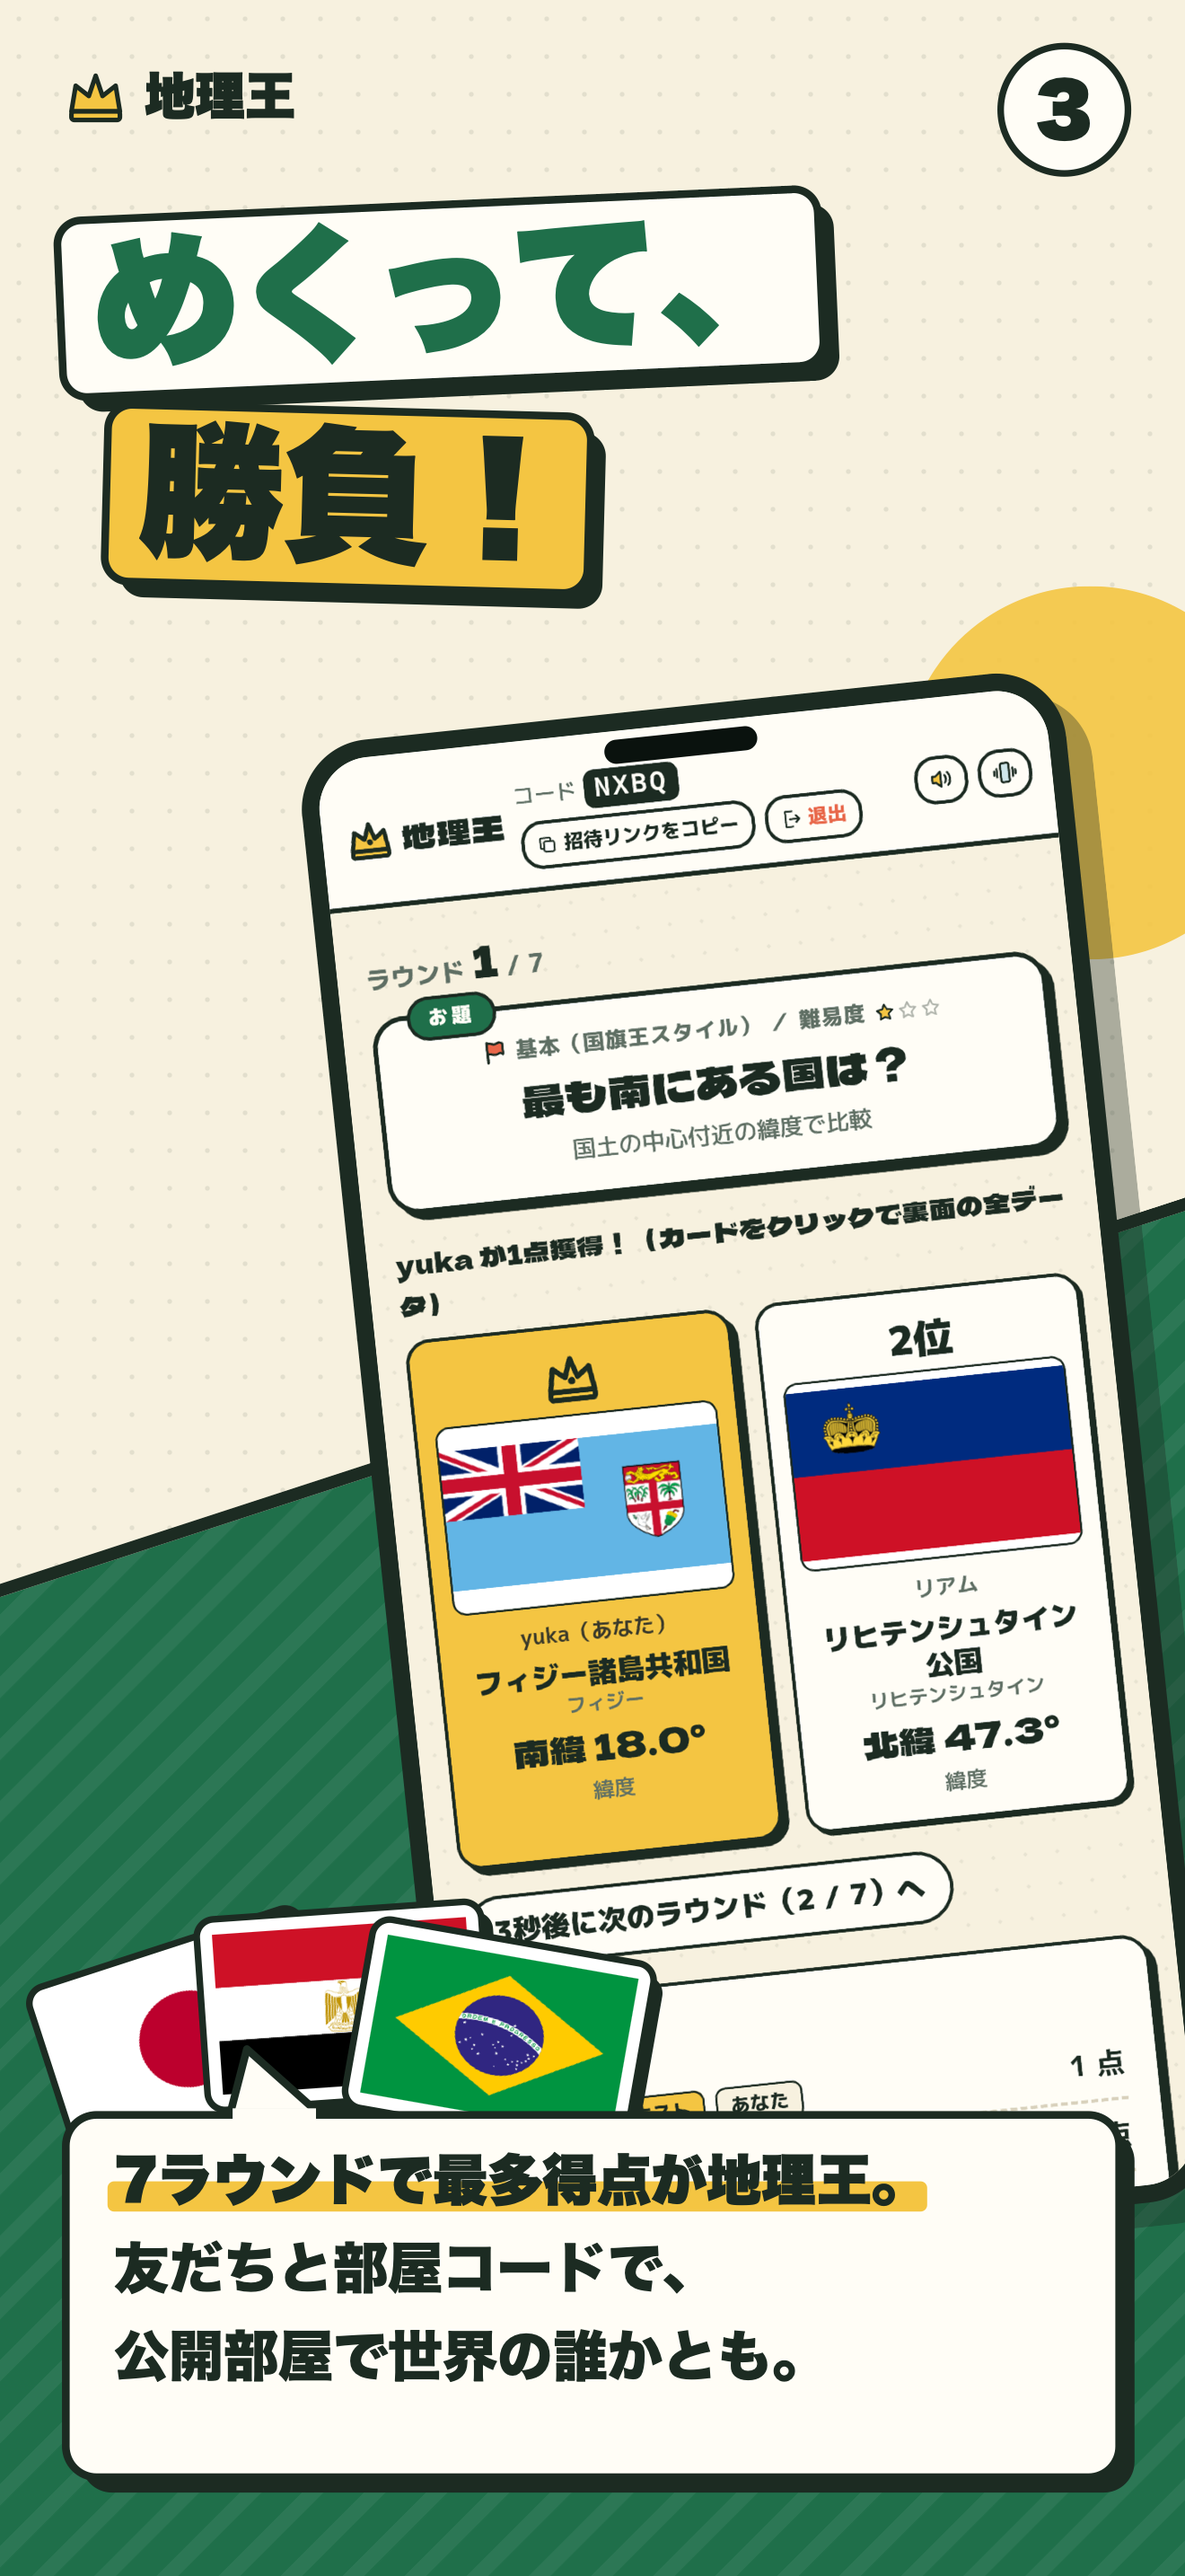
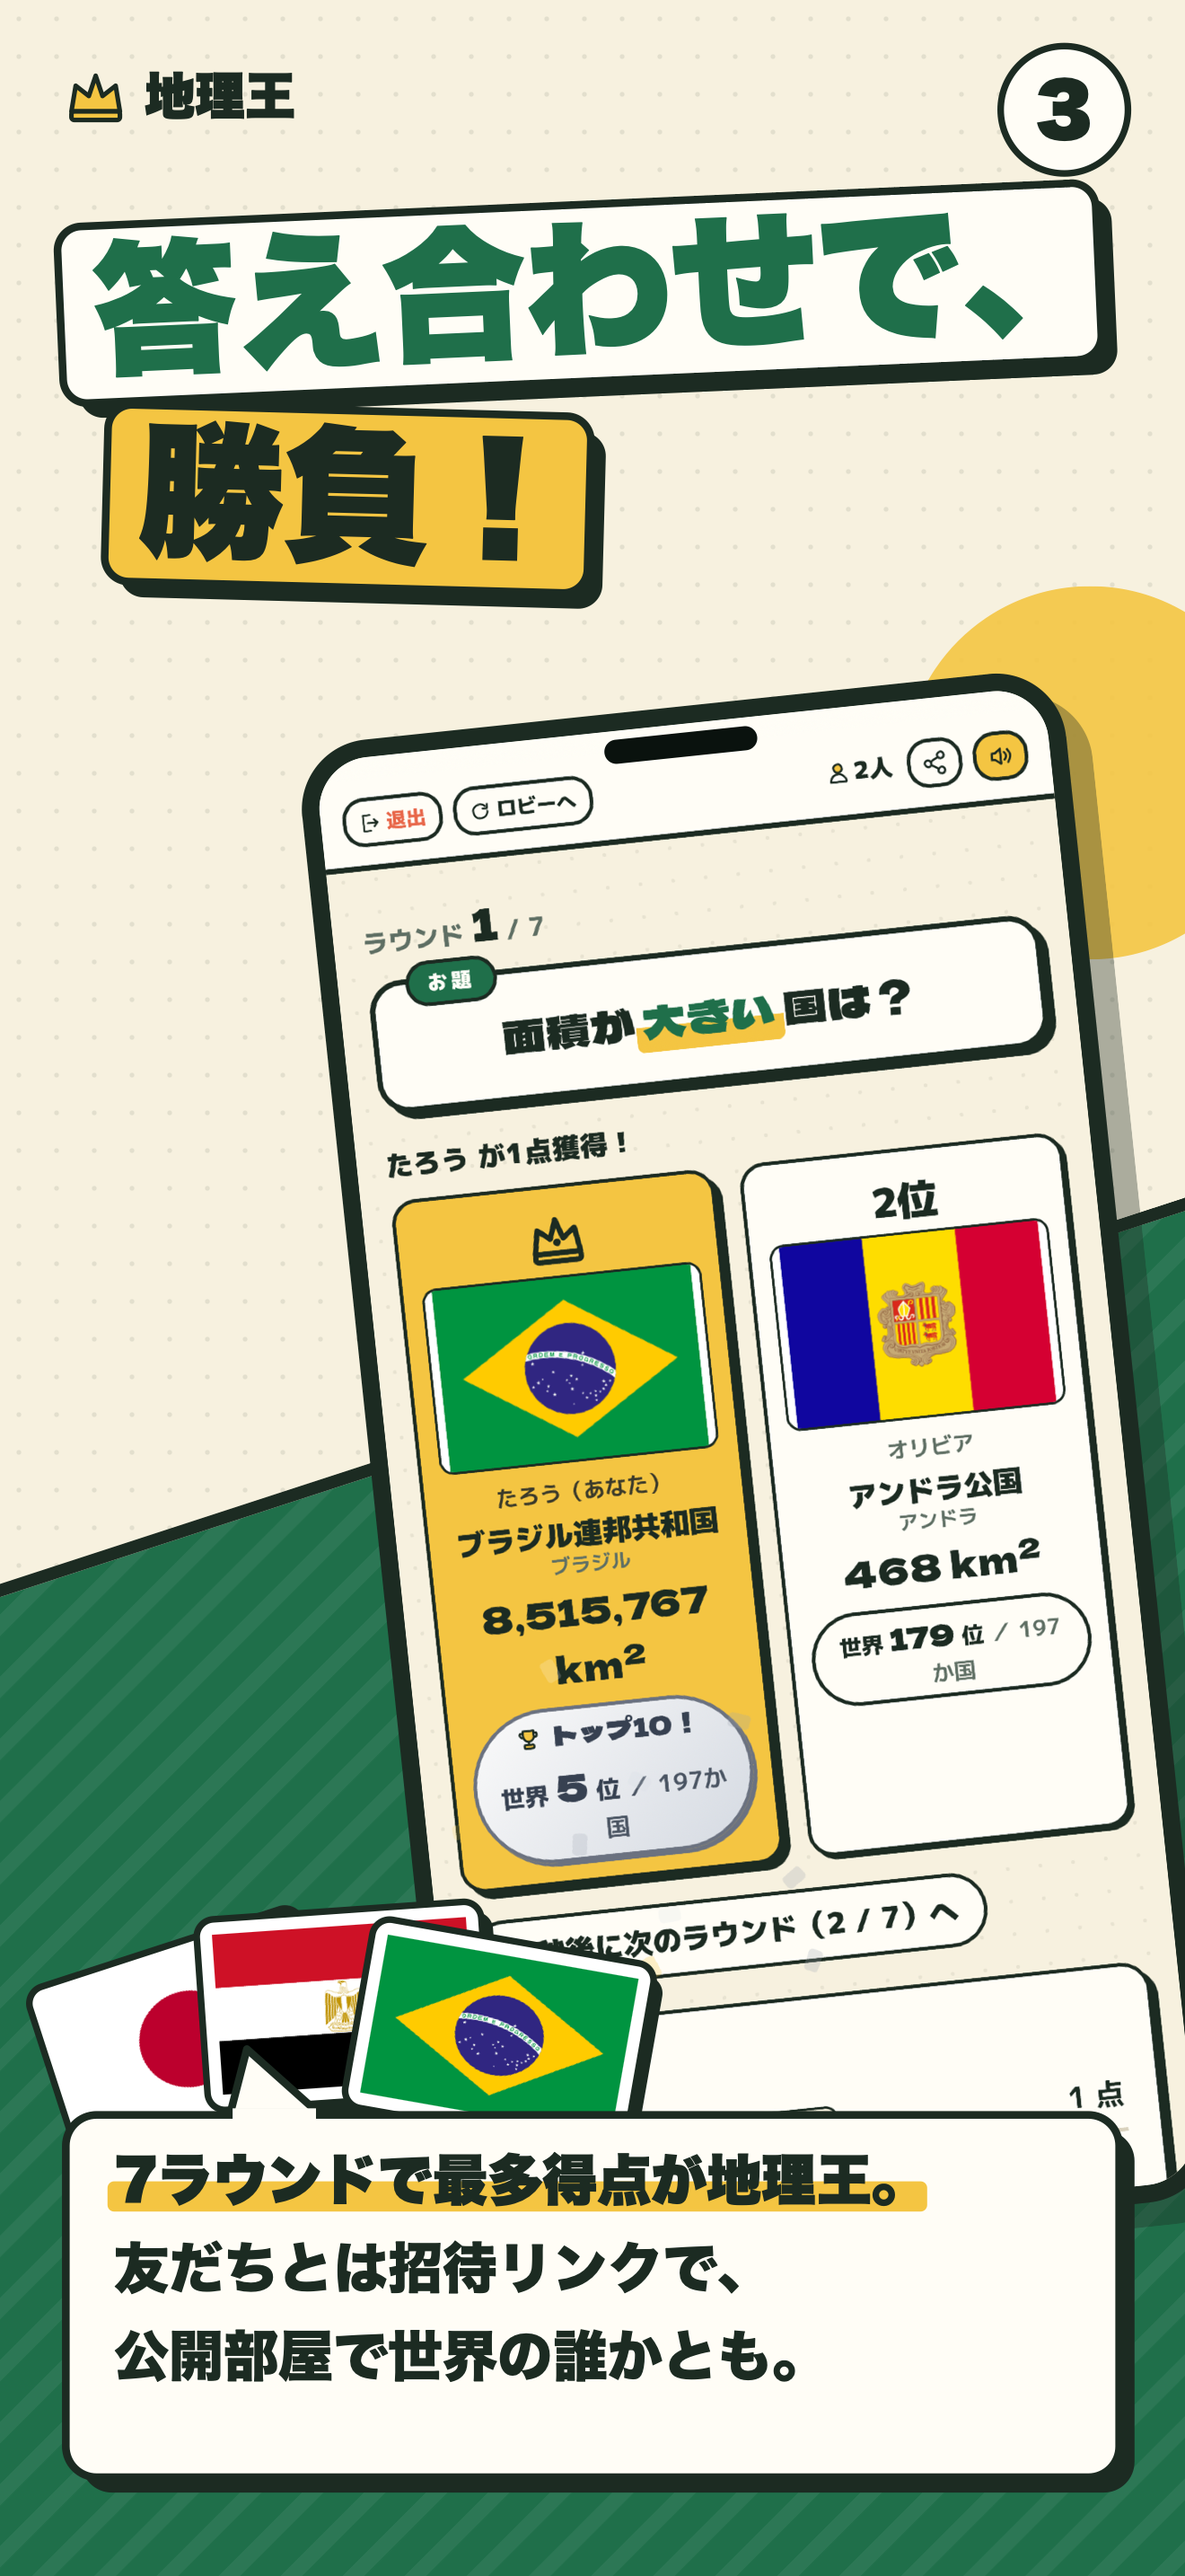
App Store 1.1 の準備: iOS 版を 1.1（ビルド7、黒い枠なしのアイコン）に。スクリーンショットを今の画面で撮り直し（iPhone シミュレーター、make_promo.py appstore）、文から「裏」「めくる」をやめる。概要・プロモーション用テキスト・最新情報・キーワード・審査メモを今の機能に合わせて更新（部屋の名前で参加、公開中の部屋、ひとりで国旗クイズ、図鑑、英語）。手順は docs/appstore-submission.md の 7

diff --git a/docs/store-assets/make_promo.py b/docs/store-assets/make_promo.py
@@ -3,7 +3,9 @@
    ・斜めの深緑の地に、左寄せの「ラベル札」風キャッチコピー
    ・少し傾けたスマホ枠と、その足元に扇状の国旗カード
    ・吹き出し型の説明カード、ステップ番号の丸バッジ
-   使い方: python3 make_promo.py → promo/ に Play 用 (1080x2400) と App Store 用 (1290x2796)
+   使い方: python3 make_promo.py → promo/ に Play 用 (1080x2400) と App Store 用 (1290x2796 / 1284x2778 / 1320x2868)
+           python3 make_promo.py appstore → App Store 用だけ作り直す（Play 用はそのまま）
+   画面の写真: Play 用は android-*.png（Android エミュレーター）、App Store 用は ios-*.png（iPhone シミュレーター。2026-09-26 撮影）
    依存: macOS の qlmanage（SVG→PNG）, sips
 """
 import base64, os, subprocess, shutil
@@ -15,13 +17,13 @@ FONT = "Hiragino Sans, Hiragino Kaku Gothic ProN, sans-serif"
 
 # (スクリーンショット, 見出し行, 説明行[(text, highlight)], 飾りの国旗)
 FRAMES = [
-    ('android-1-home.png',   ['国旗だけで、', '勝負！'],
-     [('裏のデータは見ないで、', False), ('お題に合いそうな国旗を1枚。', False), ('めくって一番近い人が1点！', True)], ['br', 'jp', 'ke']),
-    ('android-3-game.png',   ['お題に合う', '国旗を選べ'],
-     [('面積・人口・気温・宗教…', False), ('約30種のデータが裏側に。', True), ('知識より、勘と度胸！', False)], ['no', 'ar', 'eg']),
-    ('android-4-reveal.png', ['めくって、', '勝負！'],
-     [('7ラウンドで最多得点が地理王。', True), ('友だちと部屋コードで、', False), ('公開部屋で世界の誰かとも。', False)], ['jp', 'eg', 'br']),
-    ('android-5-modal.png',  ['めくった国の', 'ことが分かる'],
+    (('android-1-home.png', 'ios-1-home.png'),     ['国旗だけで、', '勝負！'],
+     [('国名もデータも見えない。', False), ('お題に合いそうな国旗を1枚。', False), ('一番近い人が1点！', True)], ['br', 'jp', 'ke']),
+    (('android-3-game.png', 'ios-2-game.png'),     ['お題に合う', '国旗を選べ'],
+     [('面積・人口・気温・宗教…', False), ('約30種のデータからお題が出る。', True), ('知識より、勘と度胸！', False)], ['no', 'ar', 'eg']),
+    (('android-4-reveal.png', 'ios-3-reveal.png'), ['答え合わせで、', '勝負！'],
+     [('7ラウンドで最多得点が地理王。', True), ('友だちとは招待リンクで、', False), ('公開部屋で世界の誰かとも。', False)], ['jp', 'eg', 'br']),
+    (('android-5-modal.png', 'ios-4-modal.png'),   ['出した国の', 'ことが分かる'],
      [('197の国旗と国のデータ、', False), ('首都・気候・宗教まで丸わかり。', True), ('遊ぶほど、世界に強くなる。', False)], ['ke', 'no', 'ar']),
 ]
 
@@ -31,7 +33,15 @@ def esc(t):
 def b64(path):
     return base64.b64encode(open(path, 'rb').read()).decode()
 
-def build_svg(shot_path, head, desc, flags, index, W, H, status_bar_px=110):
+def png_size(path):
+    import struct
+    with open(path, 'rb') as f:
+        return struct.unpack('>II', f.read(24)[16:24])
+
+def build_svg(shot_path, head, desc, flags, index, W, H, status_bar_px=None):
+    src_w, src_h = png_size(shot_path)
+    if status_bar_px is None:   # 画面の上の状態表示（時刻など）の帯を切り落とす高さ
+        status_bar_px = 150 if src_w == 1206 else 110 * src_w / 1080
     s = W / 1080.0
     parts = [f'<svg xmlns="http://www.w3.org/2000/svg" xmlns:xlink="http://www.w3.org/1999/xlink" width="{W}" height="{H}" viewBox="0 0 {W} {H}">']
     # ---- スマホの寸法（傾けて右寄せ）
@@ -41,8 +51,8 @@ def build_svg(shot_path, head, desc, flags, index, W, H, status_bar_px=110):
     phone_y = 640 * s
     radius = 64 * s
     img_x, img_y, img_w = phone_x + 16 * s, phone_y + 16 * s, phone_w - 32 * s
-    img_h_full = img_w * 2400 / 1080
-    img_dy = status_bar_px * (img_w / 1080)
+    img_h_full = img_w * src_h / src_w
+    img_dy = status_bar_px * (img_w / src_w)
     clip_h = phone_h - 32 * s
     tilt = -6
     cx, cy = phone_x + phone_w / 2, phone_y + phone_h / 2
@@ -132,10 +142,14 @@ def render(svg_text, out_png, W, H):
     os.remove(tmp_svg)
 
 def main():
+    import sys
+    only = sys.argv[1] if len(sys.argv) > 1 else ''   # 'appstore' なら App Store 用だけ、'play' なら Play 用だけ
     os.makedirs(OUT, exist_ok=True)
-    for i, (shot, head, desc, flags) in enumerate(FRAMES, 1):
-        src = os.path.join(HERE, shot)
+    for i, (shots, head, desc, flags) in enumerate(FRAMES, 1):
         for tag, W, H in (('play', 1080, 2400), ('appstore', 1290, 2796), ('appstore65', 1284, 2778), ('appstore69', 1320, 2868)):
+            if only and not tag.startswith(only):
+                continue
+            src = os.path.join(HERE, shots[0] if tag == 'play' else shots[1])
             out = os.path.join(OUT, f'{tag}-{i}.png')
             render(build_svg(src, head, desc, flags, i, W, H), out, W, H)
             print('wrote', out)
